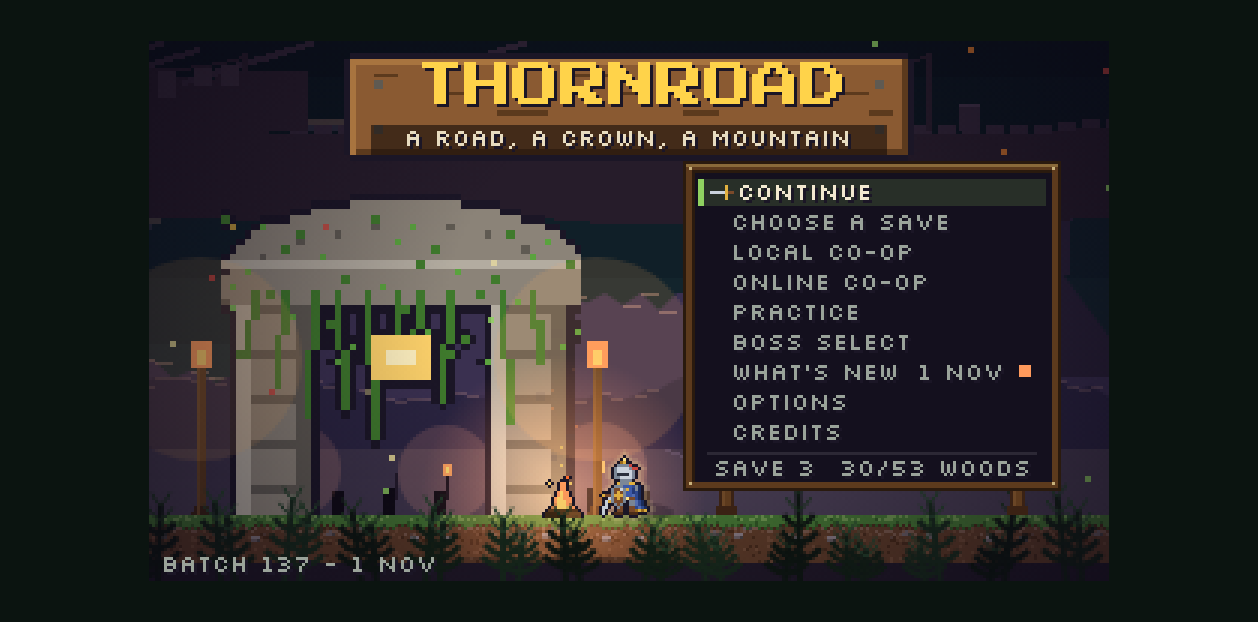
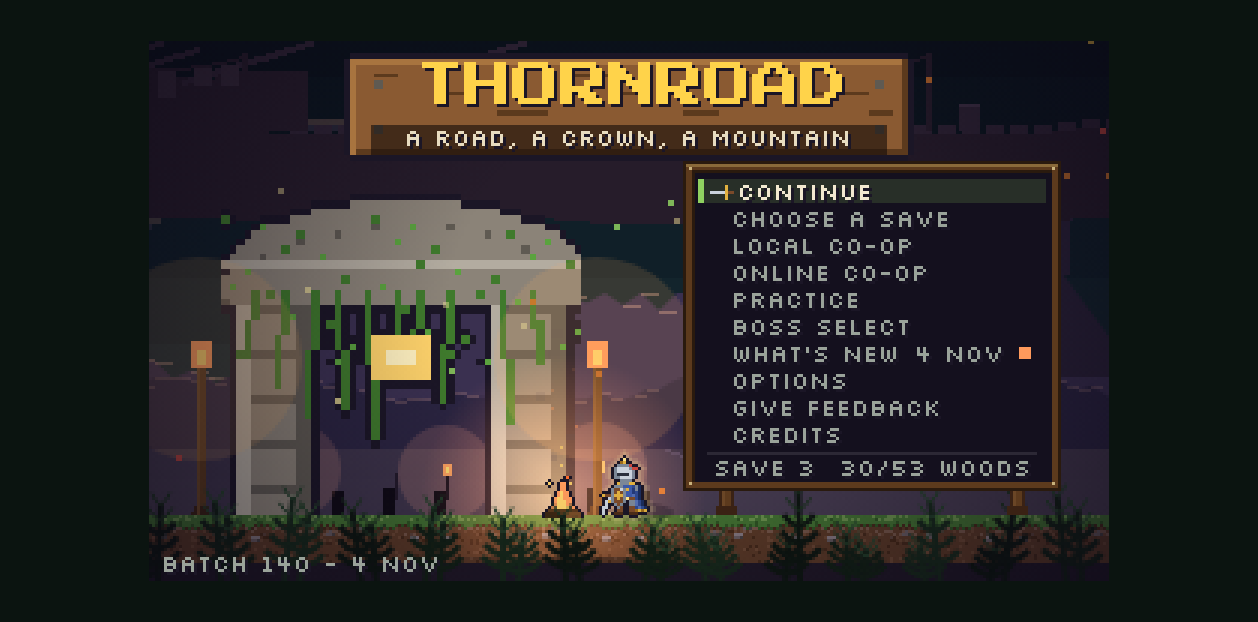
feedback: focus ring class, title row 10-row board (titlescene), lane report

Changed region(s): [[0.558, 0.3055, 0.837, 0.7331], [0.279, 0.8859, 0.341, 0.9164], [0.217, 0.8859, 0.248, 0.9164]]

diff --git a/src/feedback-form.js b/src/feedback-form.js
@@ -27,6 +27,7 @@ const CSS = `
 #fbform button.fbrate.on{background:#3a2a16;border-color:#ffd36b;color:#ffd36b}
 #fbform textarea{box-sizing:border-box;width:100%;height:70px;resize:none;font:16px/1.3 "Silkscreen","Press Start 2P",sans-serif;text-transform:none;letter-spacing:0;background:#0b0912;color:#e8dcc0;border:2px solid #8a6a3a;padding:6px;margin:3px 0;-webkit-user-select:text;user-select:text}
 #fbform textarea:focus{border-color:#ffd36b;outline:none}
+#fbform button:focus,#fbform button.kf,#fbform button.fbchip:focus,#fbform button.fbrate:focus,#fbform button.fbchip.on:focus,#fbform button.fbrate.on:focus{border-color:#ffd36b;color:#ffd36b;background:#3a2a16;box-shadow:0 0 0 2px #ffd36b;outline:none}
 #fbform .fbcount{font-size:9px;color:#8a8f80;text-align:right}
 #fbform .fbmsg{min-height:15px}
 `;
@@ -133,6 +134,8 @@ export function open(snapshot, afterClose) {
   snapFn = snapshot; onClose = afterClose || null; padPrev = {};
   if (!document.getElementById(CSSID)) { const s = document.createElement('style'); s.id = CSSID; s.textContent = CSS; document.head.appendChild(s); }
   box = UI.board(ID); const F = facts(snapFn);
+  box.root.addEventListener('focusin', e => { for (const x of box.root.querySelectorAll('.kf')) x.classList.remove('kf'); if (e.target && e.target.classList) e.target.classList.add('kf'); });
+  box.root.addEventListener('focusout', e => { if (e.target && e.target.classList) e.target.classList.remove('kf'); });   /* the focus ring is a class too: a window without OS focus still shows where the pad is */
   const rate = UI.row(...[1, 2, 3, 4, 5].map(n => { const b = UI.el('button.fbrate', String(n), () => { draft.rating = n; for (const x of rate.children) { x.classList.toggle('on', +x.dataset.n === n); x.setAttribute('aria-checked', +x.dataset.n === n ? 'true' : 'false'); } say(''); }); b.type = 'button'; b.dataset.n = n; b.setAttribute('role', 'radio'); b.setAttribute('aria-checked', draft.rating === n ? 'true' : 'false'); if (draft.rating === n) b.classList.add('on'); return b; }));
   const likeRow = UI.row(...CFG.FEEDBACK_TOPICS.map(t => chip(t, draft.liked))), badRow = UI.row(...CFG.FEEDBACK_TOPICS.map(t => chip(t, draft.bad)));
   const ta = UI.el('textarea'); ta.id = 'fbtext'; ta.maxLength = CFG.FEEDBACK_MAX_CHARS; ta.value = draft.text; ta.placeholder = 'anything else? (optional)'; ta.spellcheck = true; ta.autocomplete = 'off'; ta.setAttribute('aria-label', 'Your feedback');

diff --git a/work/claude/lane-done/claude-feedback.md b/work/claude/lane-done/claude-feedback.md
@@ -1,0 +1,27 @@
+# claude/feedback - IN-GAME GIVE FEEDBACK form (sonnet lane, 11-03)
+Branch claude/feedback (off claude/batch141 0f030403). Not merged, not deployed, no gate started.
+
+## Built
+- src/feedback-form.js: the form, plain DOM over the canvas in the game's own board style (online-ui.js, same pattern as the bug board). 1-5 rating; HERO / LEVEL / BUILD auto-filled and shown read-only (no input fields); 10 LIKED + 10 FRUSTRATING chips (combat, bosses, platforming, co-op, heroes, difficulty, controls, art, music, performance); one textarea (16px, so a phone's on-screen keyboard works; 1000-char cap + counter; the draft survives Back); SEND; BACK. Line on screen: 'Sends only what you type, plus build, level and hero.'
+- Input: keyboard (arrows walk spatially rating>liked>frustrating>text>send, wrapping; Z/Enter/Space tick; X/ESC back), gamepad (own rAF poll: d-pad/stick walk, A takes, B closes; main.js pollGamepad stands down while the form is up), mouse and touch (real buttons). A visible focus ring (class kf) even in an unfocused window.
+- src/feedback-config.js = the ONE config spot: FEEDBACK_FORM_URL ('' now), FEEDBACK_FIELDS (7 entry ids, empty), FEEDBACK_TOPICS (chip order = Google Form option order), FEEDBACK_MAX_CHARS 1000, FEEDBACK_GAP_MS 60000.
+- Send: URL empty -> 'Thanks!', NO network, note kept in localStorage 'bracken-fb-local' (last 5, try/catch). URL set (must match https://docs.google.com/forms/d/e/<id>/formResponse) -> one fetch POST, mode no-cors, credentials omit, referrerPolicy no-referrer, URLSearchParams body (checkbox keys repeat). Offline/reject = quiet 'Thanks!' + kept locally. 1 send per minute (localStorage 'bracken-fb-last'). Rating is required.
+- Entries: title menu top level row GIVE FEEDBACK (between OPTIONS and CREDITS; board is 10 rows, titlescene.mjs updated 9 -> 10); pause menu row 'Give feedback' (after 'Report a bug', PAUSE_ROWS in src/ui-hud.js, with a one-line tip). The end-of-demo screen does NOT exist on this base (demo cut + end card lane unmerged): it only needs a button calling openFeedback() in src/main.js (title rows already use it). OWED to that lane.
+- Names ad-block-safe (feedback-form.js, feedback-config.js, ids fbform/fbsend/fbback/fbtext, classes fb*); modulepreload lines added to index.html.
+- scratch\feedback-form-questions.md: the exact Google Form questions, the 'Get pre-filled link' steps, what to paste.
+
+## Checks (all one browser at a time, RAM >= 3.4 GB free each)
+- tools/feedback-form.mjs (new, 7 stages): all ok. A static (rows, URL empty, 7 fields, names clean); B form from title + from pause in a level ('HERO PYRO LEVEL THE LUMBER TRAIL BUILD BATCH140...'); C real key events; D fake gamepad; E no network (0 fetch/XHR/beacon/img/ws, note kept, 1/min, 1000 cap); F POST shape against a dummy URL intercepted in-page (POST, no-cors, 7 entries, checkboxes repeated, no save marker; offline reject quiet); G fit at 1280x720, 960x540 (card scrolls 542/491), 640x360, 375x667: nothing sideways, SEND reachable.
+- textfit title,menu,press: 24 screens, 430 strings, all counters 0 (title shows 10 rows; the pause menu rows incl. the new one). The form itself is DOM (textfit records canvas text), so stage G is its fit proof.
+- titlescene OK (10 rows), bug-report OK, title-region OK, tavern-menu OK, soundtest OK, settings-tabs OK (one crash on first run, passed on rerun alone).
+- tools/touch.mjs: page CRASHED (Inspector.targetCrashed) here AND on untouched claude/batch141 (same fault, environment) - OWED on a healthier machine.
+- Not run: tools/check.mjs (per brief), gate. Not registered in check.mjs (merge lane: add tools/feedback-form.mjs).
+
+## Screenshots (scratch\lane-reports\feedback\)
+form-keyboard-focus.png (best), form-gamepad-focus.png, form-title-open.png, form-pause-level.png, form-itch-embed.png (960x540), form-phone.png, title-row.png.
+
+## Questions (rec built)
+1. Rating required to send? Rec (built): yes, 'PICK A RATING FROM 1 TO 5 FIRST'.
+2. Title row position: top-level 'GIVE FEEDBACK' above CREDITS (built). Alt: under OPTIONS only (fewer rows).
+3. The demo-cut lane should add the end-card button (openFeedback). Rec: coordinator tells that lane.
+4. The existing 'Report a bug' board says 'Nothing is sent anywhere' - still true; no change.
